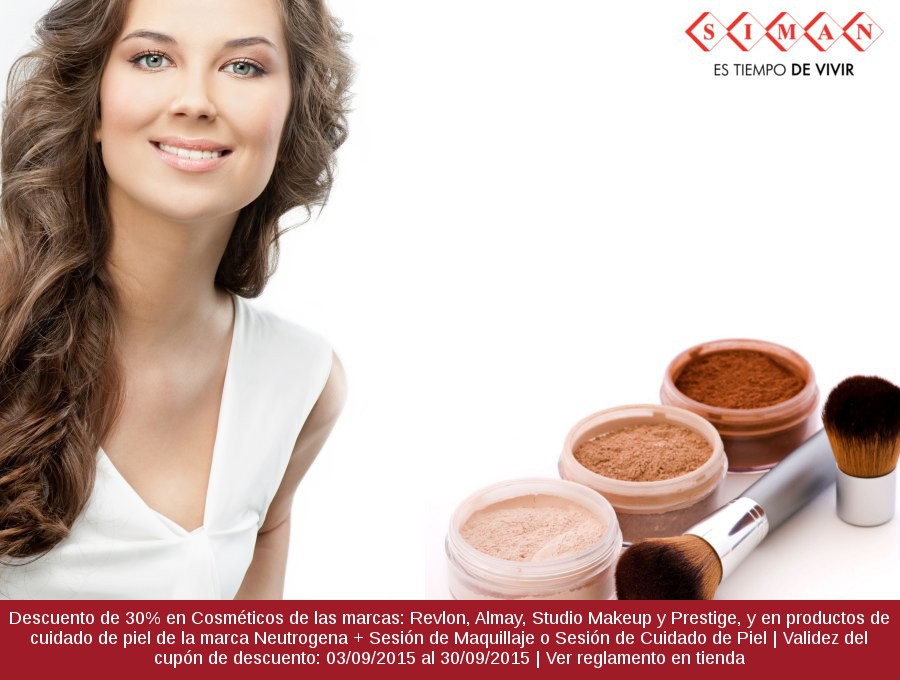
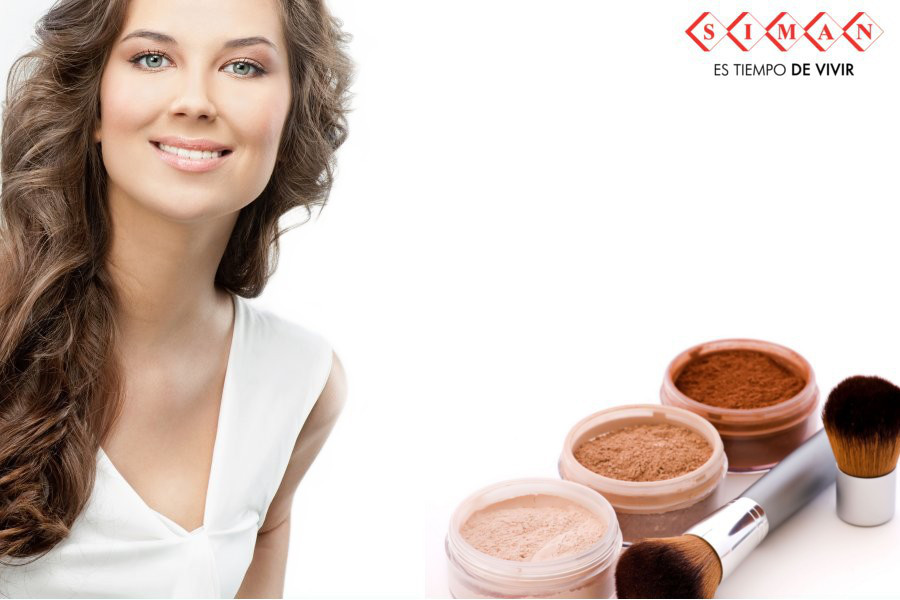
mejoras responsive

diff --git a/index.html b/index.html
@@ -8,23 +8,30 @@
     <div class="promo-main row">
         <!--<link rel="stylesheet" href="assets/styles/main.css"/>-->
         <style>
-            .promo-main{font-family:"Helvetica Neue","Helvetica","Roboto","Arial",sans-serif;position:absolute;left:20%;top:5%;background-image:url("https://s3-us-west-1.amazonaws.com/assets-predictvia/siman/promo-bg.jpg");background-repeat:no-repeat;background-size:100% auto;width:60%;min-height:680px;height:auto !important;height:600px}.promo-main .promo-buttons{width:40%;position:absolute;left:50%;padding-top:15%;font-size:1.1vw}.promo-main .promo-buttons p{text-align:center;margin-bottom:8%}.promo-main .promo-buttons p a{display:block;background-color:#D6505E;color:#fff;width:100%;text-decoration:none;padding:4%;-webkit-transition:all 0.2s ease;-moz-transition:all 0.2s ease}.promo-main .promo-buttons p a:hover{background-color:#A32532;box-shadow:2px 2px 1px #888}
+            .promo-main{font-family:"Helvetica Neue","Helvetica","Roboto","Arial",sans-serif;position:absolute;left:20%;top:5%;background-repeat:no-repeat;background-size:100% auto;width:60%;min-height:680px;height:auto !important;height:600px}.promo-main .promo-image{display:block;width:100%;position:relative}.promo-main .promo-buttons{width:40%;position:absolute;left:50%;top:0;padding-top:15%;font-size:16px}.promo-main .promo-buttons p{text-align:center;margin-bottom:8%}.promo-main .promo-buttons p a{display:block;background-color:#D6505E;color:#fff;width:100%;text-decoration:none;padding:4%;-webkit-transition:all 0.2s ease;-moz-transition:all 0.2s ease;box-shadow:2px 2px 1px #888}.promo-main .promo-buttons p a:hover{background-color:#A32532}.promo-main .promo-footer{background-color:#A32532;color:#fff;padding:1%;text-align:center;font-size:12px}@media (max-width: 768px){.promo-main{width:90%;left:5%}.promo-main .promo-buttons{font-size:16px;width:50%;left:30%}}@media only screen and (min-width: 768px){.promo-main{width:90%;left:5%}.promo-main .promo-buttons{font-size:20px;width:50%;left:40%}}@media only screen and (min-width: 1024px){.promo-main{width:60%;left:20%}.promo-main .promo-buttons{font-size:22px;width:50%;left:40%}}@media (max-width: 320px){.promo-main{left:0;position:initial;width:100%}.promo-main .promo-buttons{left:40%;font-size:35px;width:50%}}
         </style>
+            <img class="promo-image" src="./assets/img/promo-bg.jpg" alt=""/>
+
         <div class="promo-buttons col-xs-6 col-xs-offset-6">
             <p>
-            <a href="https://predictvia.typeform.com/to/ntHRPV" class="promo-btn">
-                Sesión de Maquillaje + Cupón de Descuento
-            </a>
+                <a href="https://predictvia.typeform.com/to/ntHRPV" class="promo-btn">
+                    Sesión de Maquillaje + Cupón de Descuento
+                </a>
             </p>
             <p>
-
-            <a href="https://predictvia.typeform.com/to/O7fDnK" class="promo-btn">
-                Sólo Cupón de Descuento
-            </a>
+                <a href="https://predictvia.typeform.com/to/O7fDnK" class="promo-btn">
+                    Sólo Cupón de Descuento
+                </a>
             </p>
 
         </div>
 
+        <div class="promo-footer">
+            Descuento de 30% en Cosméticos de las marcas: Revlon, Almay, Studio Makeup y Prestige,
+            y en productos de cuidado de piel de la marca Neutrogena + Sesión de Maquillaje o Sesión de Cuidado de Piel
+            | Descuento aplica sobre precio regular de producto | Validez del cupón de descuento: 03/09/2015 al
+            30/09/2015 | Ver reglamento en tienda.
+        </div>
     </div>
 </body>
 </html>

diff --git a/assets/styles/main.css b/assets/styles/main.css
@@ -1,2 +1,2 @@
-.promo-main{font-family:"Helvetica Neue","Helvetica","Roboto","Arial",sans-serif;position:absolute;left:20%;top:5%;background-image:url("https://s3-us-west-1.amazonaws.com/assets-predictvia/siman/promo-bg.jpg");background-repeat:no-repeat;background-size:100% auto;width:60%;min-height:680px;height:auto !important;height:600px}.promo-main .promo-buttons{width:40%;position:absolute;left:50%;padding-top:15%;font-size:1.1vw}.promo-main .promo-buttons p{text-align:center;margin-bottom:8%}.promo-main .promo-buttons p a{display:block;background-color:#D6505E;color:#fff;width:100%;text-decoration:none;padding:4%;-webkit-transition:all 0.2s ease;-moz-transition:all 0.2s ease}.promo-main .promo-buttons p a:hover{background-color:#A32532;box-shadow:2px 2px 1px #888}
+.promo-main{font-family:"Helvetica Neue","Helvetica","Roboto","Arial",sans-serif;position:absolute;left:20%;top:5%;background-repeat:no-repeat;background-size:100% auto;width:60%;min-height:680px;height:auto !important;height:600px}.promo-main .promo-image{display:block;width:100%;position:relative}.promo-main .promo-buttons{width:40%;position:absolute;left:50%;top:0;padding-top:15%;font-size:16px}.promo-main .promo-buttons p{text-align:center;margin-bottom:8%}.promo-main .promo-buttons p a{display:block;background-color:#D6505E;color:#fff;width:100%;text-decoration:none;padding:4%;-webkit-transition:all 0.2s ease;-moz-transition:all 0.2s ease;box-shadow:2px 2px 1px #888}.promo-main .promo-buttons p a:hover{background-color:#A32532}.promo-main .promo-footer{background-color:#A32532;color:#fff;padding:1%;text-align:center;font-size:12px}@media (max-width: 768px){.promo-main{width:90%;left:5%}.promo-main .promo-buttons{font-size:16px;width:50%;left:30%}}@media only screen and (min-width: 768px){.promo-main{width:90%;left:5%}.promo-main .promo-buttons{font-size:20px;width:50%;left:40%}}@media only screen and (min-width: 1024px){.promo-main{width:60%;left:20%}.promo-main .promo-buttons{font-size:22px;width:50%;left:40%}}@media (max-width: 320px){.promo-main{left:0;position:initial;width:100%}.promo-main .promo-buttons{left:40%;font-size:35px;width:50%}}
 /*# sourceMappingURL=main.css.map */

diff --git a/assets/styles/main.sass b/assets/styles/main.sass
@@ -1,25 +1,32 @@
+
+
 .promo-main
   font-family: "Helvetica Neue", "Helvetica", "Roboto", "Arial", sans-serif
   position: absolute
   left: 20%
   top: 5%
-  background-image: url('https://s3-us-west-1.amazonaws.com/assets-predictvia/siman/promo-bg.jpg')
+  //background-image: url('../img/promo-bg.jpg')
+  //background-image: url('https://s3-us-west-1.amazonaws.com/assets-predictvia/siman/promo-bg.jpg')
   background-repeat: no-repeat
   background-size: 100% auto
   width: 60%
   min-height: 680px
   height: auto !important
   height: 600px
+  .promo-image
+    display: block
+    width: 100%
+    position: relative
 
   .promo-buttons
     width: 40%
     position: absolute
     left: 50%
-    //top: 20%
+    top: 0
     //min-height: 680px
     //height: auto !important
     padding-top: 15%
-    font-size: 1.1vw
+    font-size: 16px
 
     p
       text-align: center
@@ -34,6 +41,58 @@
         padding: 4%
         -webkit-transition: all 0.2s ease
         -moz-transition: all 0.2s ease
+        box-shadow: 2px 2px 1px #888888
+
         &:hover
           background-color: #A32532
-          box-shadow: 2px 2px 1px #888888
+
+  .promo-footer
+    background-color: #A32532
+    color: white
+    padding: 1%
+    text-align: center
+    font-size: 12px
+
+@media (max-width: 768px)
+  .promo-main
+    width: 90%
+    left: 5%
+
+    .promo-buttons
+      font-size: 16px
+      width: 50%
+      left: 30%
+
+@media only screen and (min-width: 768px)
+  .promo-main
+    width: 90%
+    left: 5%
+
+    .promo-buttons
+      //p
+      //  a
+      //    line-height: 50px
+      font-size: 20px
+      width: 50%
+      left: 40%
+
+@media only screen and (min-width: 1024px)
+  .promo-main
+    width: 60%
+    left: 20%
+
+    .promo-buttons
+      font-size: 22px
+      width: 50%
+      left: 40%
+
+@media  (max-width: 320px)
+  .promo-main
+    left: 0
+    position: initial
+    width: 100%
+    .promo-buttons
+      left: 40%
+      font-size: 35px
+      width: 50%
+
